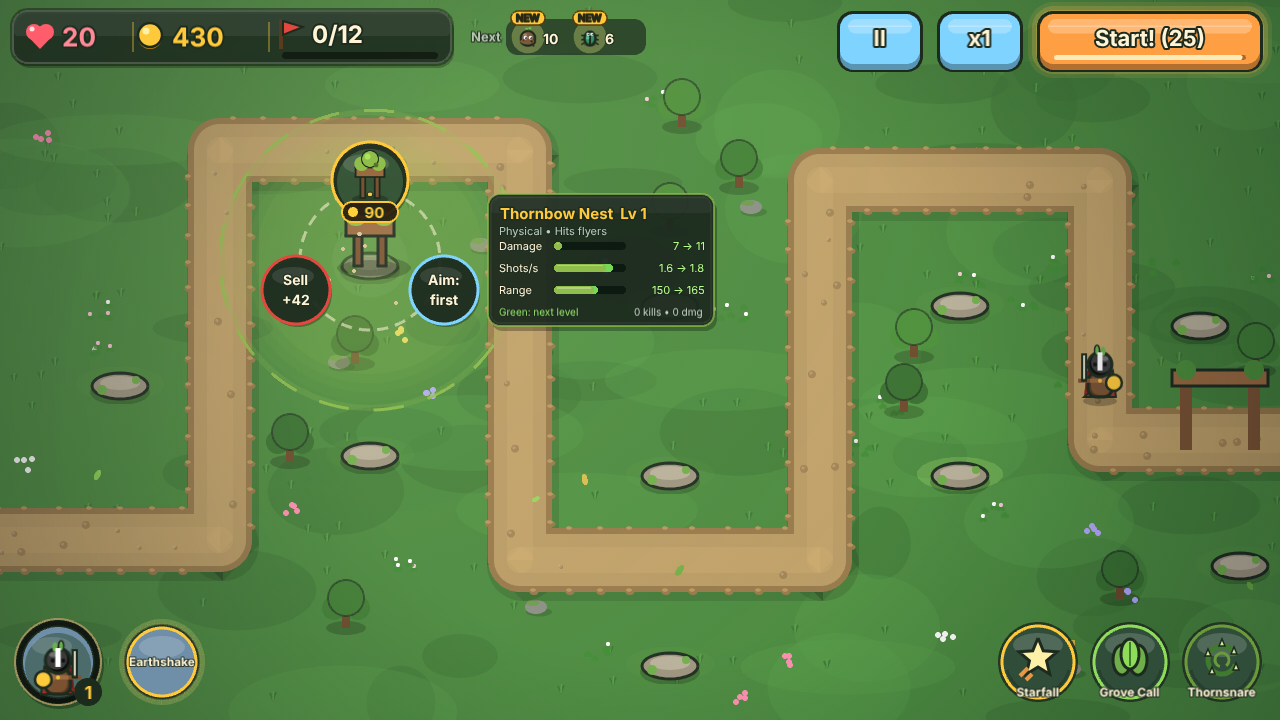
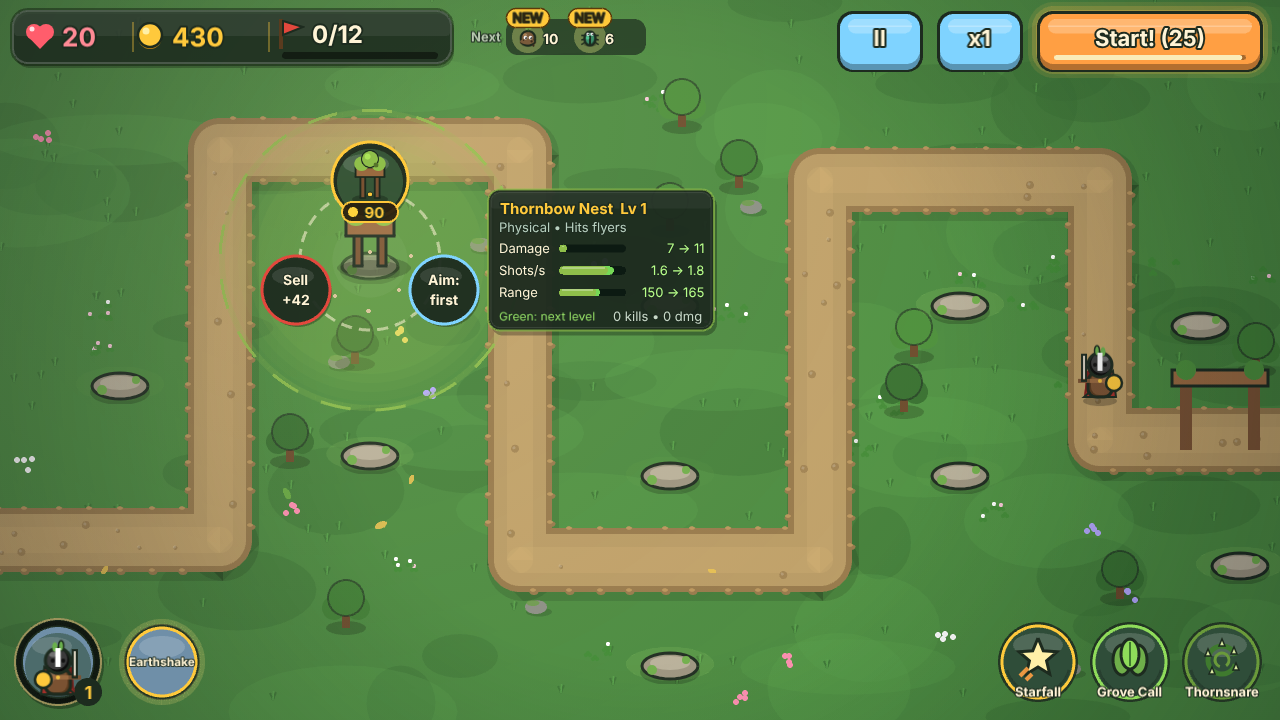
Fix F3: no text below 13px; cards reflow for larger captions
pf() now floors small labels at 13 game px (17 on phones). Tower, hero and
enemy cards lay out from measured text heights, the stat label column
fits its longest label, enemy stats wrap, and the NEW pill fits its text.

Claude-Session: https://claude.ai/code/session_014CFVfVpVtuJQnsGzjrGSnn

Changed region(s): [[0.375, 0.2444, 0.5625, 0.4889], [0.7812, 0.9472, 1.0, 0.9778], [0.375, 0.0, 0.5, 0.0611]]

diff --git a/game/src/scenes/BattleScene.ts b/game/src/scenes/BattleScene.ts
@@ -2193,8 +2193,8 @@ export class BattleScene extends Phaser.Scene {
     this.livesText = this.add.text(60, 37, '', textStyle(26, TEXT.heart)).setOrigin(0, 0.5).setDepth(3001);
     this.add.image(150, 37, 'icon_coin').setDepth(3001);
     this.coinText = this.add.text(170, 37, '', textStyle(26, TEXT.gold)).setOrigin(0, 0.5).setDepth(3001);
-    this.titheText = this.add.text(20, 76, '', textStyle(12, '#ff9a7a')).setOrigin(0, 0.5).setDepth(3001).setVisible(false);
-    if (devOn()) this.add.text(GAME_W / 2, GAME_H - 14, 'DEV MODE: endless coins, lives and spells (results not saved)', textStyle(12, '#ffb0c8')).setOrigin(0.5).setDepth(3001);
+    this.titheText = this.add.text(20, 76, '', textStyle(13, '#ff9a7a')).setOrigin(0, 0.5).setDepth(3001).setVisible(false);
+    if (devOn()) this.add.text(GAME_W / 2, GAME_H - 14, 'DEV MODE: endless coins, lives and spells (results not saved)', textStyle(13, '#ffb0c8')).setOrigin(0.5).setDepth(3001);
     this.add.image(290, 34, 'icon_wave').setDepth(3001);
     this.waveText = this.add.text(310, 34, '', textStyle(24)).setOrigin(0, 0.5).setDepth(3001);
     this.waveBar = this.add.graphics().setDepth(3001);
@@ -2855,10 +2855,13 @@ export class BattleScene extends Phaser.Scene {
         const tag = this.add.container(x, -19);
         const pill = this.add.graphics();
         pill.fillStyle(0xffc83a, 1);
-        pill.fillRoundedRect(-17, -7, 34, 14, 7);
+        const newT = this.add.text(0, 0, 'NEW', textStyle(pf(10), '#3a2408', false)).setOrigin(0.5);
+        const pw = Math.max(34, newT.width + 10);
+        const ph = Math.max(14, newT.height);
+        pill.fillRoundedRect(-pw / 2, -ph / 2, pw, ph, ph / 2);
         pill.lineStyle(1.5, 0x5a3a0a, 1);
-        pill.strokeRoundedRect(-17, -7, 34, 14, 7);
-        tag.add([pill, this.add.text(0, 0, 'NEW', textStyle(pf(10), '#3a2408', false)).setOrigin(0.5)]);
+        pill.strokeRoundedRect(-pw / 2, -ph / 2, pw, ph, ph / 2);
+        tag.add([pill, newT]);
         c.add(tag);
       }
     });
@@ -3310,11 +3313,15 @@ export class BattleScene extends Phaser.Scene {
 
   /** Stat bars on an info card: label, a bar with the next step as a green extension, and `cur → next` text. */
   private drawCardRows(card: Phaser.GameObjects.Container, g: Phaser.GameObjects.Graphics, rows: CardRow[], y0: number, W: number, color: number): void {
+    // the label column is as wide as its longest label (66..96 px); labels share one size if they still need shrinking
+    const labels = rows.map((r) => this.add.text(10, 0, r.label, textStyle(pf(11), TEXT.cream, false)).setOrigin(0, 0.5));
+    const maxW = Math.max(...labels.map((l) => l.width));
+    const bx = Phaser.Math.Clamp(Math.ceil(10 + maxW + 8), 66, 96);
+    const bw = W - bx - 88;
+    const sc = Math.min(1, (bx - 14) / maxW);
     rows.forEach((r, i) => {
       const y = y0 + i * 22;
-      const bx = 66;
-      const bw = W - 154;
-      card.add(fitWidth(this.add.text(10, y, r.label, textStyle(pf(11), TEXT.cream, false)).setOrigin(0, 0.5), bx - 14));
+      card.add(labels[i].setY(y).setScale(sc));
       g.fillStyle(0x0c1a12, 1);
       g.fillRoundedRect(bx, y - 4, bw, 8, 4);
       if (r.next !== null && r.next > r.value) {
@@ -3326,7 +3333,7 @@ export class BattleScene extends Phaser.Scene {
       g.fillStyle(0xffffff, 0.3);
       g.fillRect(bx + 3, y - 3, Math.max(2, bw * r.value - 6), 1.5);
       const txt = r.nextText ? `${r.text} → ${r.nextText}` : r.text;
-      card.add(fitWidth(this.add.text(W - 8, y, txt, textStyle(pf(11), r.nextText ? '#b8ff8a' : TEXT.cream, false)).setOrigin(1, 0.5), W - bx - bw - 12));
+      card.add(fitWidth(this.add.text(W - 8, y, txt, textStyle(pf(11), r.nextText ? '#b8ff8a' : TEXT.cream, false)).setOrigin(1, 0.5), 76));
     });
   }
 
@@ -3359,10 +3366,10 @@ export class BattleScene extends Phaser.Scene {
     this.drawCardRows(card, g, heroCardRows(h.def, h.level), 62, W, h.def.color);
     let y = 62 + 3 * 22 - 4;
     const para = (head: string, body: string, color: string) => {
-      card.add(fitWidth(this.add.text(12, y, head, textStyle(pf(11), color, false)), W - 24));
-      const t = this.add.text(12, y + 15, body, { ...textStyle(pf(11), TEXT.cream, false), wordWrap: { width: W - 24 } });
-      card.add(t);
-      y += 15 + t.height + 6;
+      const hd = fitWidth(this.add.text(12, y, head, textStyle(pf(11), color, false)), W - 24);
+      const t = this.add.text(12, y + hd.displayHeight - 2, body, { ...textStyle(pf(11), TEXT.cream, false), wordWrap: { width: W - 24 } });
+      card.add([hd, t]);
+      y = t.y + t.height + 6;
     };
     para('Passive', h.def.passive.text, '#9be86a');
     para(`Skill: ${h.def.active.name} (${Math.round(h.def.active.cooldown)}s)`, h.def.active.text, '#ffc870');
@@ -3394,10 +3401,11 @@ export class BattleScene extends Phaser.Scene {
     const hp = this.add.text(W - 10, 36, '', textStyle(pf(11), TEXT.cream, false)).setOrigin(1, 0.5);
     card.add(hp);
     const stats = `Armor ${Math.round(e.def.armor * 100)}%  •  Magic res ${Math.round(e.def.magicResist * 100)}%  •  Speed ${Math.round(e.def.speed)}`;
-    card.add(fitWidth(this.add.text(10, 50, stats, textStyle(pf(11), '#c8d8c8', false)), W - 20));
-    const trait = this.add.text(10, 68, enemyKeyTrait(e.def), { ...textStyle(pf(11), TEXT.cream, false), wordWrap: { width: W - 20 } });
-    card.add(trait);
-    const H = 68 + trait.height + 10;
+    // stats wrap rather than shrink, so they stay readable on a phone
+    const st = this.add.text(10, 44, stats.replace(/ {2}• {2}/g, ' • '), { ...textStyle(pf(11), '#c8d8c8', false), wordWrap: { width: W - 20 } });
+    const trait = this.add.text(10, st.y + st.height + 3, enemyKeyTrait(e.def), { ...textStyle(pf(11), TEXT.cream, false), wordWrap: { width: W - 20 } });
+    card.add([st, trait]);
+    const H = trait.y + trait.height + 10;
     glossPanel(bg, 0, 0, W, H, { fill: C.ink, alpha: 0.94, rim: 0xff7a5a, rimAlpha: 0.7, radius: 12 });
     card.setData({ W, H, bar, hp, trail: newTrail(Math.max(0, e.hp / e.maxHp)) });
     this.enemyCard = card;
@@ -3470,20 +3478,24 @@ export class BattleScene extends Phaser.Scene {
    */
   private towerCard(tower: Tower, pos: Vec2, next: TowerTier | null, nextName?: string): Phaser.GameObjects.Container {
     const W = 226;
-    const H = 132;
     const right = pos.x < GAME_W - 370;
     const x0 = right ? 118 : -118 - W;
-    const top = Phaser.Math.Clamp(pos.y - H / 2, 70, GAME_H - H - 106) - pos.y; // clear of the HUD and the spell buttons
-    const card = this.add.container(x0, top).setName('towerCard');
+    const card = this.add.container(x0, 0).setName('towerCard');
     const g = this.add.graphics();
-    glossPanel(g, 0, 0, W, H, { fill: C.ink, alpha: 0.94, rim: tower.def.color, rimAlpha: 0.7, radius: 12 });
     card.add(g);
     const cur = this.sim.stats(tower);
     const title = tower.spec ? tower.def.specs.find((x) => x.id === tower.spec)!.name : `${tower.def.name}  Lv ${tower.tier + 1}`;
-    card.add(fitWidth(this.add.text(10, 8, title, textStyle(pf(15), TEXT.gold)), W - 20));
+    const titleT = fitWidth(this.add.text(10, 8, title, textStyle(pf(15), TEXT.gold)), W - 20);
     const tags = cardTags(tower.def, cur).join(' • ');
-    card.add(fitWidth(this.add.text(10, 29, tags, textStyle(pf(11), '#b8d0c0', false)), W - 20));
-    this.drawCardRows(card, g, cardRows(cur, next), 52, W, tower.def.color);
+    const tagsT = fitWidth(this.add.text(10, titleT.y + titleT.displayHeight - 1, tags, textStyle(pf(11), '#b8d0c0', false)), W - 20);
+    card.add([titleT, tagsT]);
+    // rows start below the tags and the card grows to fit, so bigger phone text never overlaps
+    const rows = cardRows(cur, next);
+    const y0 = Math.max(52, tagsT.y + tagsT.displayHeight + 11);
+    const H = Math.max(132, y0 + (rows.length - 1) * 22 + 38);
+    card.y = Phaser.Math.Clamp(pos.y - H / 2, 70, GAME_H - H - 106) - pos.y; // clear of the HUD and the spell buttons
+    glossPanel(g, 0, 0, W, H, { fill: C.ink, alpha: 0.94, rim: tower.def.color, rimAlpha: 0.7, radius: 12 });
+    this.drawCardRows(card, g, rows, y0, W, tower.def.color);
     if (next) card.add(fitWidth(this.add.text(10, H - 14, nextName ? `Branch: ${nextName}` : 'Green: next level', textStyle(pf(10), '#9be86a', false)).setOrigin(0, 0.5), W / 2 - 14));
     // this run's record: kills and damage, gold once it's a veteran
     const rec = towerRecord(tower.uid, this.sim.dmgBy, this.sim.killsBy);

diff --git a/game/src/ui/hitpad.ts b/game/src/ui/hitpad.ts
@@ -19,10 +19,14 @@ export function paddedHit(w: number, h: number, min = TOUCH_MIN, maxPad = TOUCH_
 /** Smallest font (game px) we want for in-play labels on a phone, where the game renders at ~0.5×. */
 export const PHONE_MIN_FONT = 18;
 
-/** Font size for a small label: on phones, +4 px but no bigger than PHONE_MIN_FONT (or the original). */
+/** Smallest label size anywhere (game px): small captions and chart numbers never go below this. */
+export const MIN_READABLE_FONT = 13;
+
+/** Font size for a small label: never below MIN_READABLE_FONT; on phones, +4 px but no bigger than PHONE_MIN_FONT (or the original). */
 export function phoneFontSize(size: number, touch: boolean): number {
-  if (!touch) return size;
-  return Math.min(size + 4, Math.max(size, PHONE_MIN_FONT));
+  const s = Math.max(size, MIN_READABLE_FONT);
+  if (!touch) return s;
+  return Math.min(s + 4, Math.max(s, PHONE_MIN_FONT));
 }
 
 /** WCAG 2.5.5: a target should be at least this many CSS px across, on any device. */

diff --git a/game/tests/touch.test.ts b/game/tests/touch.test.ts
@@ -19,14 +19,19 @@ describe('touch hit padding', () => {
   });
 });
 
-import { phoneFontSize, PHONE_MIN_FONT } from '../src/ui/hitpad';
+import { MIN_READABLE_FONT, phoneFontSize, PHONE_MIN_FONT } from '../src/ui/hitpad';
 
 describe('phone font sizes', () => {
   it('leaves desktop sizes alone', () => {
-    expect(phoneFontSize(12, false)).toBe(12);
+    expect(phoneFontSize(14, false)).toBe(14);
+  });
+  it('lifts tiny labels to the readable minimum everywhere', () => {
+    expect(phoneFontSize(9, false)).toBe(MIN_READABLE_FONT);
+    expect(phoneFontSize(12, false)).toBe(MIN_READABLE_FONT);
+    expect(phoneFontSize(9, true)).toBe(PHONE_MIN_FONT - 1);
   });
   it('bumps small labels on phones, capped at the minimum', () => {
-    expect(phoneFontSize(12, true)).toBe(16);
+    expect(phoneFontSize(12, true)).toBe(17);
     expect(phoneFontSize(14, true)).toBe(PHONE_MIN_FONT);
     expect(phoneFontSize(16, true)).toBe(PHONE_MIN_FONT);
     expect(phoneFontSize(24, true)).toBe(24);

diff --git a/game/PROGRESS.md b/game/PROGRESS.md
@@ -2053,26 +2053,27 @@ Iteration counter: **316** (feature loop stopped at the user's request; design l
 ## Fix Loop (requested by the user after the skill reviews)
 **Goal: apply every fix from the design critique, accessibility audit and game-floors scoring, one per iteration, then resume the Design Backlog.** No new levels, regions, enemies or features. Every 5th fix iteration is a consistency pass (palette, outline weight, phone readability at 740x360). Screenshots go to `screenshots/fix-<n>-*.png`.
 
-Fix counter: **F2**
+Fix counter: **F3**
 
 ### Fix Done
 - **F1 (A1) Keyboard play everywhere.** New scene plugin `src/ui/keyNav.ts` (registered in `main.ts`, so every scene gets it). Tab / Shift+Tab and the arrow keys move a pulsing gold focus ring (ink-backed) between every reachable control: anything with a hand cursor whose centre a tap would actually hit, so controls under a modal blocker are skipped. Enter presses the focused control (Space too, in scenes that don't bind Space). Esc presses a Back / Close control in scenes without an Esc key of their own. Only the top-most running scene with controls takes the keys, and a panel that opens takes the focus on its biggest new control (map node → level card → Replay). Pure logic in `src/systems/focusNav.ts` (reading order, directional nearest with sideways penalty, back-label match) with 7 tests in `tests/focusNav.test.ts`. `scripts/keynav-check.mjs` plays menu → Campaign → level 1 → Replay → battle with keys only. Screenshots: `fix-1-menu.png`, `fix-1-map.png`, `fix-1-card.png`, `fix-1-battle.png`.
 
 - **F2 (A2) Hit areas of at least 44 CSS px on every device.** New scene plugin `src/ui/autoPad.ts` (registered in `main.ts`) rescans every 400 ms for clickable controls (hand cursor, plain rectangular hit area) and grows each hit area toward `minHitGamePx` (44 CSS px converted through `scale.displayScale`; never below TOUCH_MIN on touch). Growth on each axis stops at half the gap to the nearest neighbour beside it (`roomToGrow`, capped at 30 game px per side), so neighbours keep their taps. Custom hit shapes and areas `padHit` already set are left alone. Pure maths in `src/ui/hitpad.ts` with 9 new tests. `scripts/hitsize-check.mjs` measures every control on the menu and map at 1280×720 and 740×360. On the phone, the map's Next pill grew from 15 to 44 CSS px tall and Field Guide / Settings / DEV from 22–26 to 44. Daily stays at 36, limited by the Village button just above it. keynav, tower-menu and card checks still pass. Screenshot `fix-2-phone-map.png`.
 
+- **F3 (A3) Readable small text.** `phoneFontSize` (behind `pf()`) now never returns below `MIN_READABLE_FONT` = 13 game px, so every small caption is at least 13 px on desktop and 17 px on phones. That covers wave-chart numbers (were 9), card tags and stats (11), the NEW tag (10) and the branch/record footers (10). The tithe and dev-mode lines go from 12 to 13. Cards adapt so the larger text doesn't overlap: the tower card places its stat rows below the tags and grows taller to fit, the stat-row label column widens to its longest label (66–96 px) and all labels share one size, the hero card's skill bodies start below their headings, the enemy card's stats wrap instead of shrinking to about 7 px, and the NEW pill sizes itself to its text. Tests updated and extended (358 total). Before/after screenshots for the tower, hero and enemy cards (desktop and phone) and the results chart: `fix-3-before-*` and `fix-3-after-*`.
+
 ### Fix Backlog (ranked)
-1. **A3** Readable text of at least pf(13) for the wave chart and card captions.
-2. **F1** Ground variation: per-theme baked low-contrast value-step noise lit from the upper left (see `docs/art/desire-lines.html`).
-3. **F2** Path edge polish: worn lighter middle, shaded upper-left bank, lit lower-right bank, grass tufts spilling over the edges.
-4. **F3** Contact shadows under trees, standing stones and flowers.
-5. **F4** Floor outline rule: interactive items (paths, slots, ponds) ink-outlined; decoration a darker tint only.
-6. **F5** The wave / boss banner no longer covers path entries (move up, or fade after 1.5 s).
-7. **C1** Outline weight by role: 3 px heroes and bosses, 2.5 px foes, 2 px small parts.
-8. **C2** Colour accents on the early brown / grey enemy families.
-9. **C3** Status-effect icons, not tint only.
-10. **A4** Tooltips on icon-only controls.
-11. **A5** Hidden aria-live region announcing wave start, lives lost, victory and the focused control (`keyNav.focusedLabel()` is ready for it).
-12. Then resume the Design Backlog below.
+1. **F1** Ground variation: per-theme baked low-contrast value-step noise lit from the upper left (see `docs/art/desire-lines.html`).
+2. **F2** Path edge polish: worn lighter middle, shaded upper-left bank, lit lower-right bank, grass tufts spilling over the edges.
+3. **F3** Contact shadows under trees, standing stones and flowers.
+4. **F4** Floor outline rule: interactive items (paths, slots, ponds) ink-outlined; decoration a darker tint only.
+5. **F5** The wave / boss banner no longer covers path entries (move up, or fade after 1.5 s).
+6. **C1** Outline weight by role: 3 px heroes and bosses, 2.5 px foes, 2 px small parts.
+7. **C2** Colour accents on the early brown / grey enemy families.
+8. **C3** Status-effect icons, not tint only.
+9. **A4** Tooltips on icon-only controls.
+10. **A5** Hidden aria-live region announcing wave start, lives lost, victory and the focused control (`keyNav.focusedLabel()` is ready for it).
+11. Then resume the Design Backlog below.
 
 ## Design Loop (requested by the user after iteration 316)
 **Goal: make every character and every existing level look fancy. No new levels, regions, enemies or features.**
